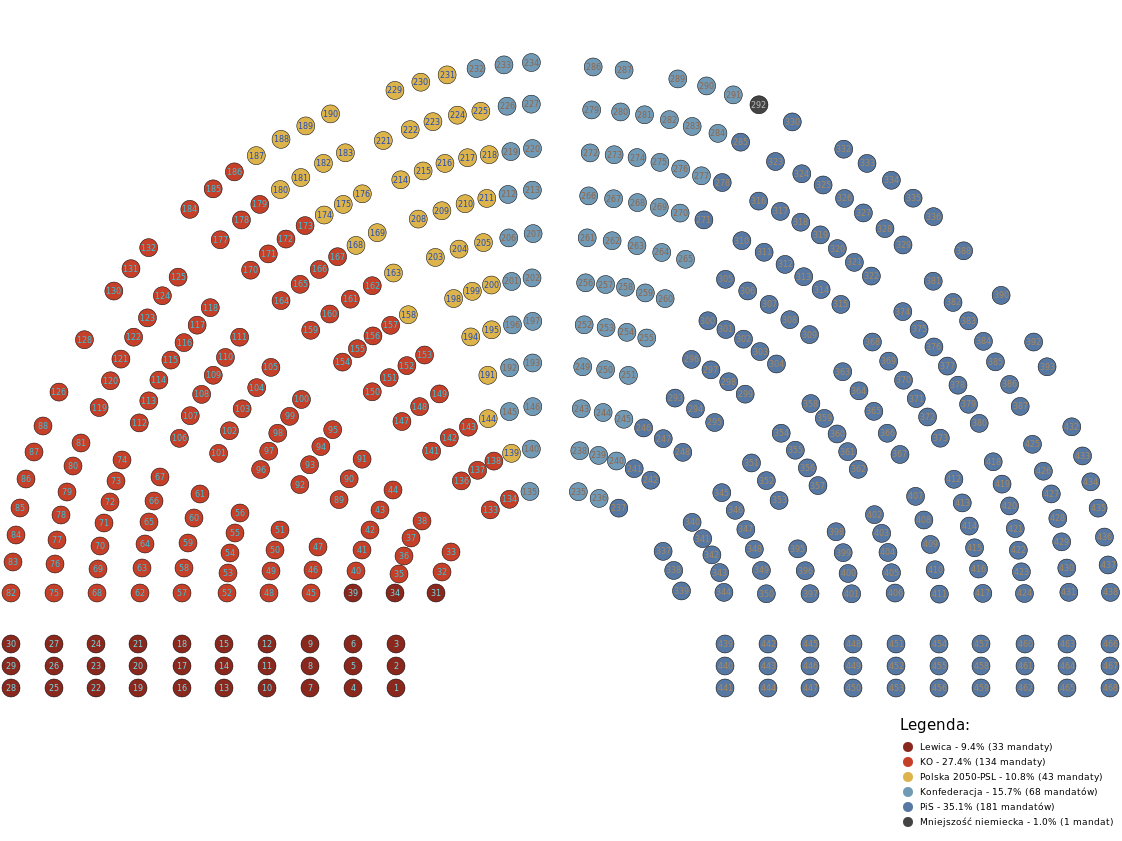
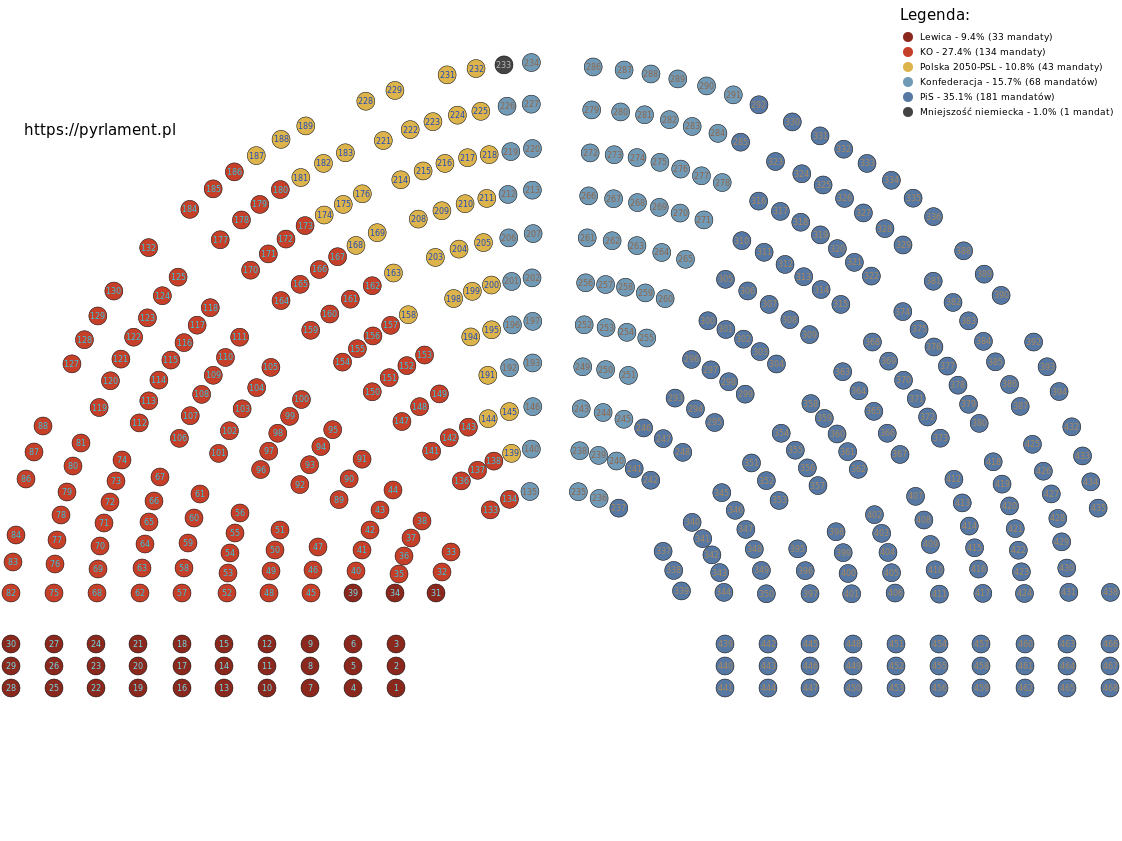
Legend fix and logotype

diff --git a/pyrlament/generator.py b/pyrlament/generator.py
@@ -4,6 +4,7 @@ from typing import List, Optional
 import drawsvg
 import numpy as np
 from cairosvg import svg2png
+from cairosvg.surface import PNGSurface
 from pydantic import BaseModel
 
 from pyrlament.configs import PYRLAMENT_PROPERTIES
@@ -374,7 +375,16 @@ class SeatsGenerator:
 
     def _get_svg(self):
         svg = drawsvg.Drawing(1122, 841, overflow="hidden")
-        g = drawsvg.Group(transform="translate(0 50)")
+        svg.append(self._draw_seats())
+        if self.logotype:
+            svg.append(self._draw_logotype())
+            svg.append(drawsvg.Text("https://pyrlament.pl", 15, 100, 130, fill="#000000", center=1, font_family="sans-serif"))
+        if self.legend:
+            svg.append(self._draw_legend())
+        return svg
+
+    def _draw_seats(self) -> drawsvg.Group:
+        seats = drawsvg.Group(transform="translate(0 50)")
         for seat in self.seats:
             if not self._skip_empty_seats or (self._skip_empty_seats and seat.fill != "#ffffff"):
                 circle = drawsvg.Circle(seat.cx, seat.cy, 9, fill=seat.fill, stroke="black", stroke_width="0.5")
@@ -388,39 +398,36 @@ class SeatsGenerator:
                     text_anchor="middle",
                     font_family="sans-serif",
                 )
-                g.append(circle)
-                g.append(seat_number)
-        svg.append(g)
+                seats.append(circle)
+                seats.append(seat_number)
+        return seats
 
-        if self.logotype:
-            with open("assets/pyRLAMENT_logo.svg", "rb") as f:
-                logotype_data = f.read()
-            logotype = drawsvg.Image(
-                x="0", y="0", width="200", height="115", mime_type="image/svg+xml", data=logotype_data
-            )
-            svg.append(logotype)
+    def _draw_logotype(self) -> drawsvg.Image:
+        with open("assets/pyRLAMENT_logo.png", "rb") as f:
+            logotype_data = f.read()
+        return drawsvg.Image(
+            x="0", y="0", width="200", height="115", mime_type="image/png", data=logotype_data
+        )
 
-        if self.legend:
-            legend = drawsvg.Group(transform="translate(900 730)")
-            legend.append(drawsvg.Text("Legenda:", 15, 0, 0, fill="#000000", font_family="sans-serif"))
-            cr_x = 20
-            cr_y = 20
-            for p in self.parties:
-                legend.append(drawsvg.Circle(cr_x - 12, cr_y - 3, 5, fill=f"#{p.color}"))
-                legend.append(
-                    drawsvg.Text(
-                        f"{p.label} - {p.support}% ({p.seats} {self._get_mandates_label(p.seats)})",
-                        9,
-                        cr_x,
-                        cr_y,
-                        fill="#000000",
-                        font_family="sans-serif",
-                    )
+    def _draw_legend(self) -> drawsvg.Group:
+        legend = drawsvg.Group(transform="translate(900 20)")
+        legend.append(drawsvg.Text("Legenda:", 15, 0, 0, fill="#000000", font_family="sans-serif"))
+        cr_x = 20
+        cr_y = 20
+        for p in self.parties:
+            legend.append(drawsvg.Circle(cr_x - 12, cr_y - 3, 5, fill=f"#{p.color}"))
+            legend.append(
+                drawsvg.Text(
+                    f"{p.label} - {p.support}% ({p.seats} {self._get_mandates_label(p.seats)})",
+                    9,
+                    cr_x,
+                    cr_y,
+                    fill="#000000",
+                    font_family="sans-serif",
                 )
-                cr_y += 15
-            svg.append(legend)
-
-        return svg
+            )
+            cr_y += 15
+        return legend
 
     @staticmethod
     def _get_mandates_label(seats) -> str:
@@ -434,17 +441,19 @@ class SeatsGenerator:
         svg = self._get_svg()
         return svg.as_svg()
 
-    def get_gif(self):
+    def save_svg(self, svg_filename: str):
         svg = self._get_svg()
-        return svg.as_gif()
+        svg.save_svg(svg_filename)
 
-    def save_svg(self, filename):
-        svg = self._get_svg()
-        svg.save_svg(filename)
-
-    def save_png(self, filename):
-        svg = self._get_svg()
-        svg2png(bytestring=svg.as_svg(), write_to=filename)
+    @staticmethod
+    def convert_svg_to_png(svg_filename: str, png_filename: str):
+        with open(svg_filename, 'rb') as svg_file:
+            PNGSurface.convert(
+                bytestring=svg_file.read(),
+                width=1122,
+                height=841,
+                write_to=open(png_filename, 'wb')
+            )
 
     @staticmethod
     def hex_to_rgb(h: str) -> tuple:
@@ -452,7 +461,7 @@ class SeatsGenerator:
 
     @staticmethod
     def invert_rgb(c: tuple) -> tuple:
-        return (255 - c[0], 255 - c[1], 255 - c[2])
+        return 255 - c[0], 255 - c[1], 255 - c[2]
 
     @staticmethod
     def rgb_to_hex(rgb: tuple) -> str:

diff --git a/pyrlament/scripts.py b/pyrlament/scripts.py
@@ -22,4 +22,4 @@ def demo():
     g = SeatsGenerator(parties=election.parties, logotype=logotype)
     g.colorize()
     g.save_svg("assets/pyrlament_sample.svg")
-    g.save_png("assets/pyrlament_sample.png")
+    g.convert_svg_to_png("assets/pyrlament_sample.svg", "assets/pyrlament_sample.png")

diff --git a/demo.py b/demo.py
@@ -25,4 +25,4 @@ g = SeatsGenerator(parties=election.parties, logotype=logotype)
 g.colorize()
 # g.colorize_by_sequence()
 g.save_svg("assets/pyrlament_sample.svg")
-g.save_png("assets/pyrlament_sample.png")
+g.convert_svg_to_png("assets/pyrlament_sample.svg", "assets/pyrlament_sample.png")
